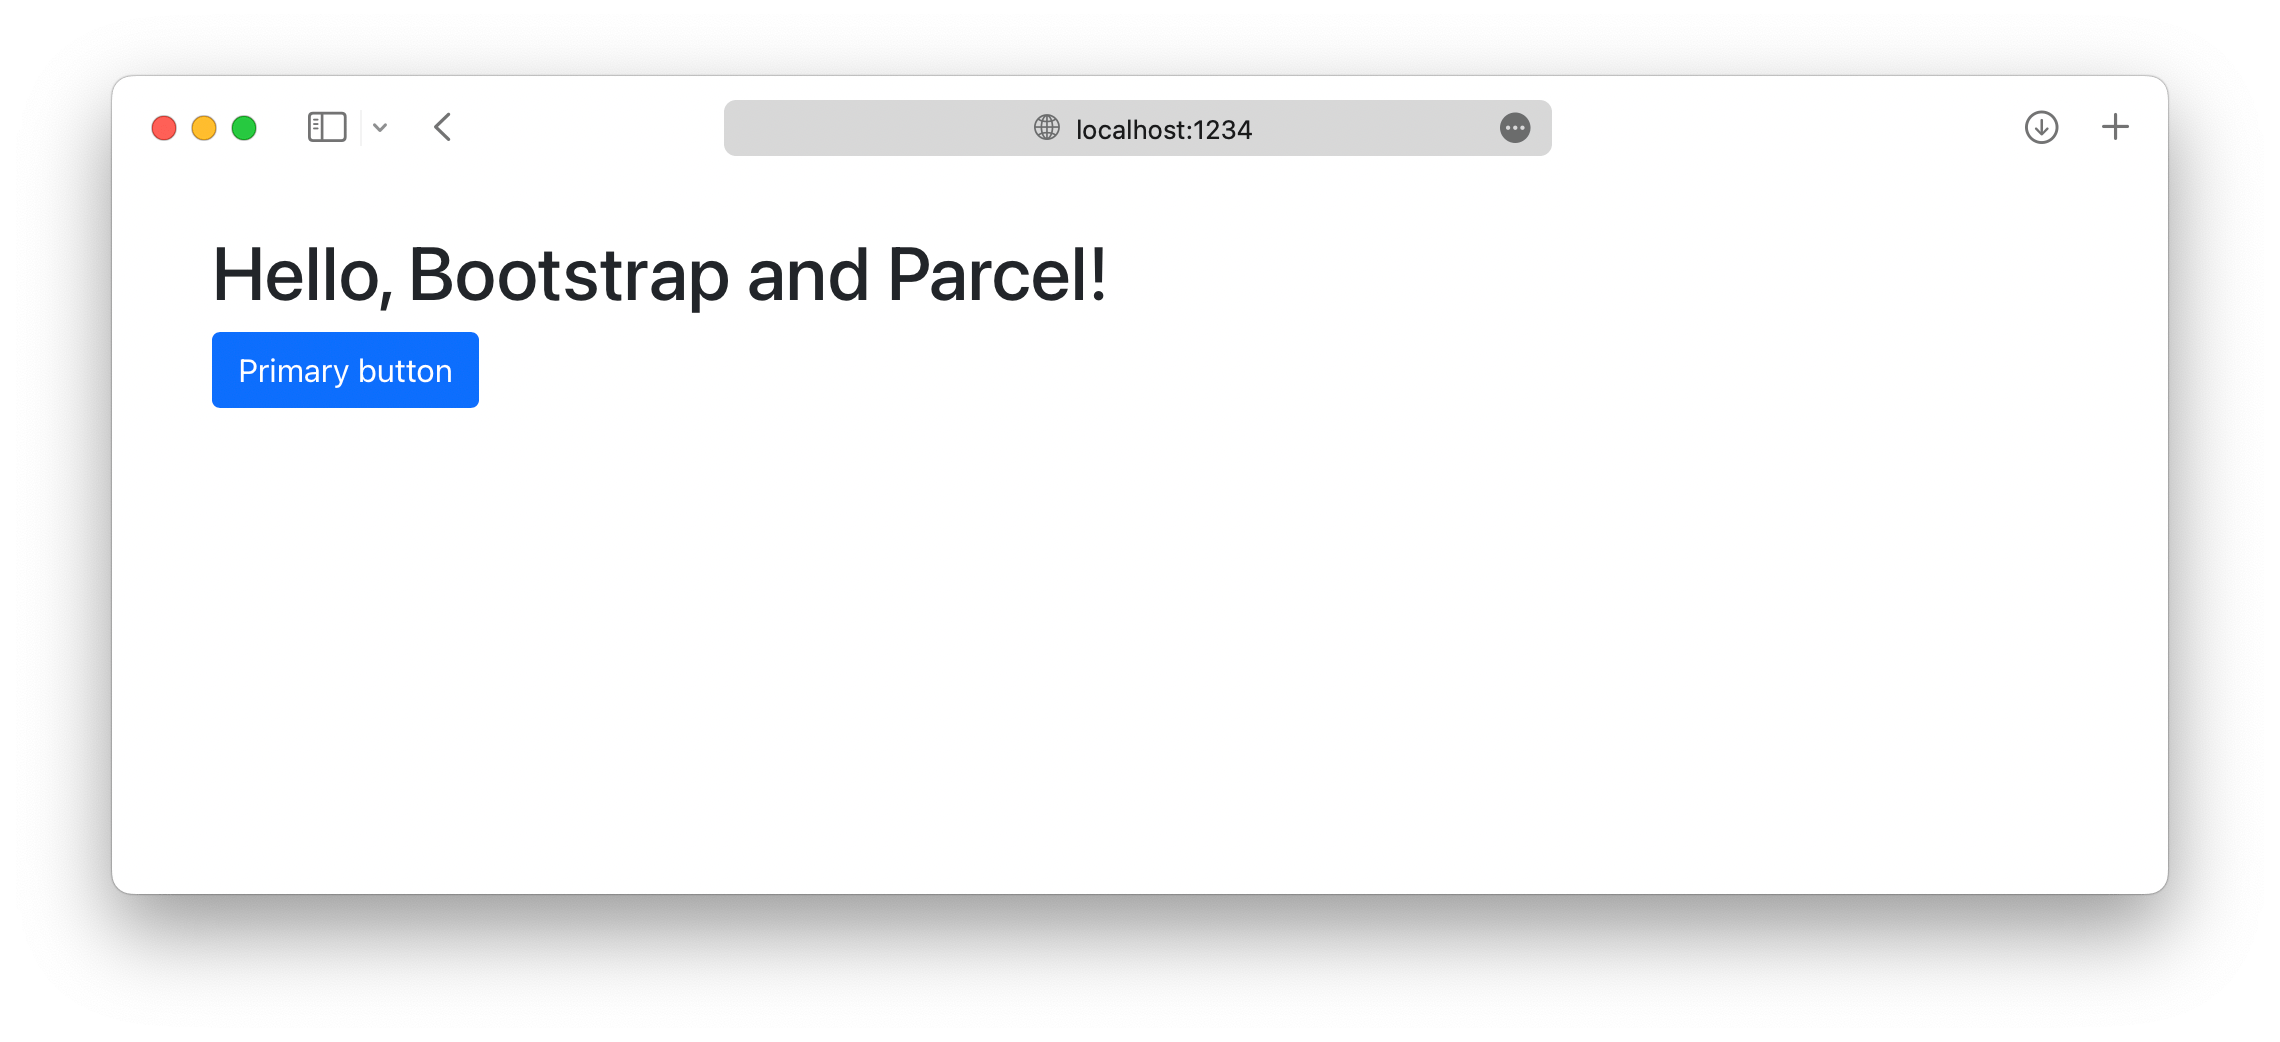
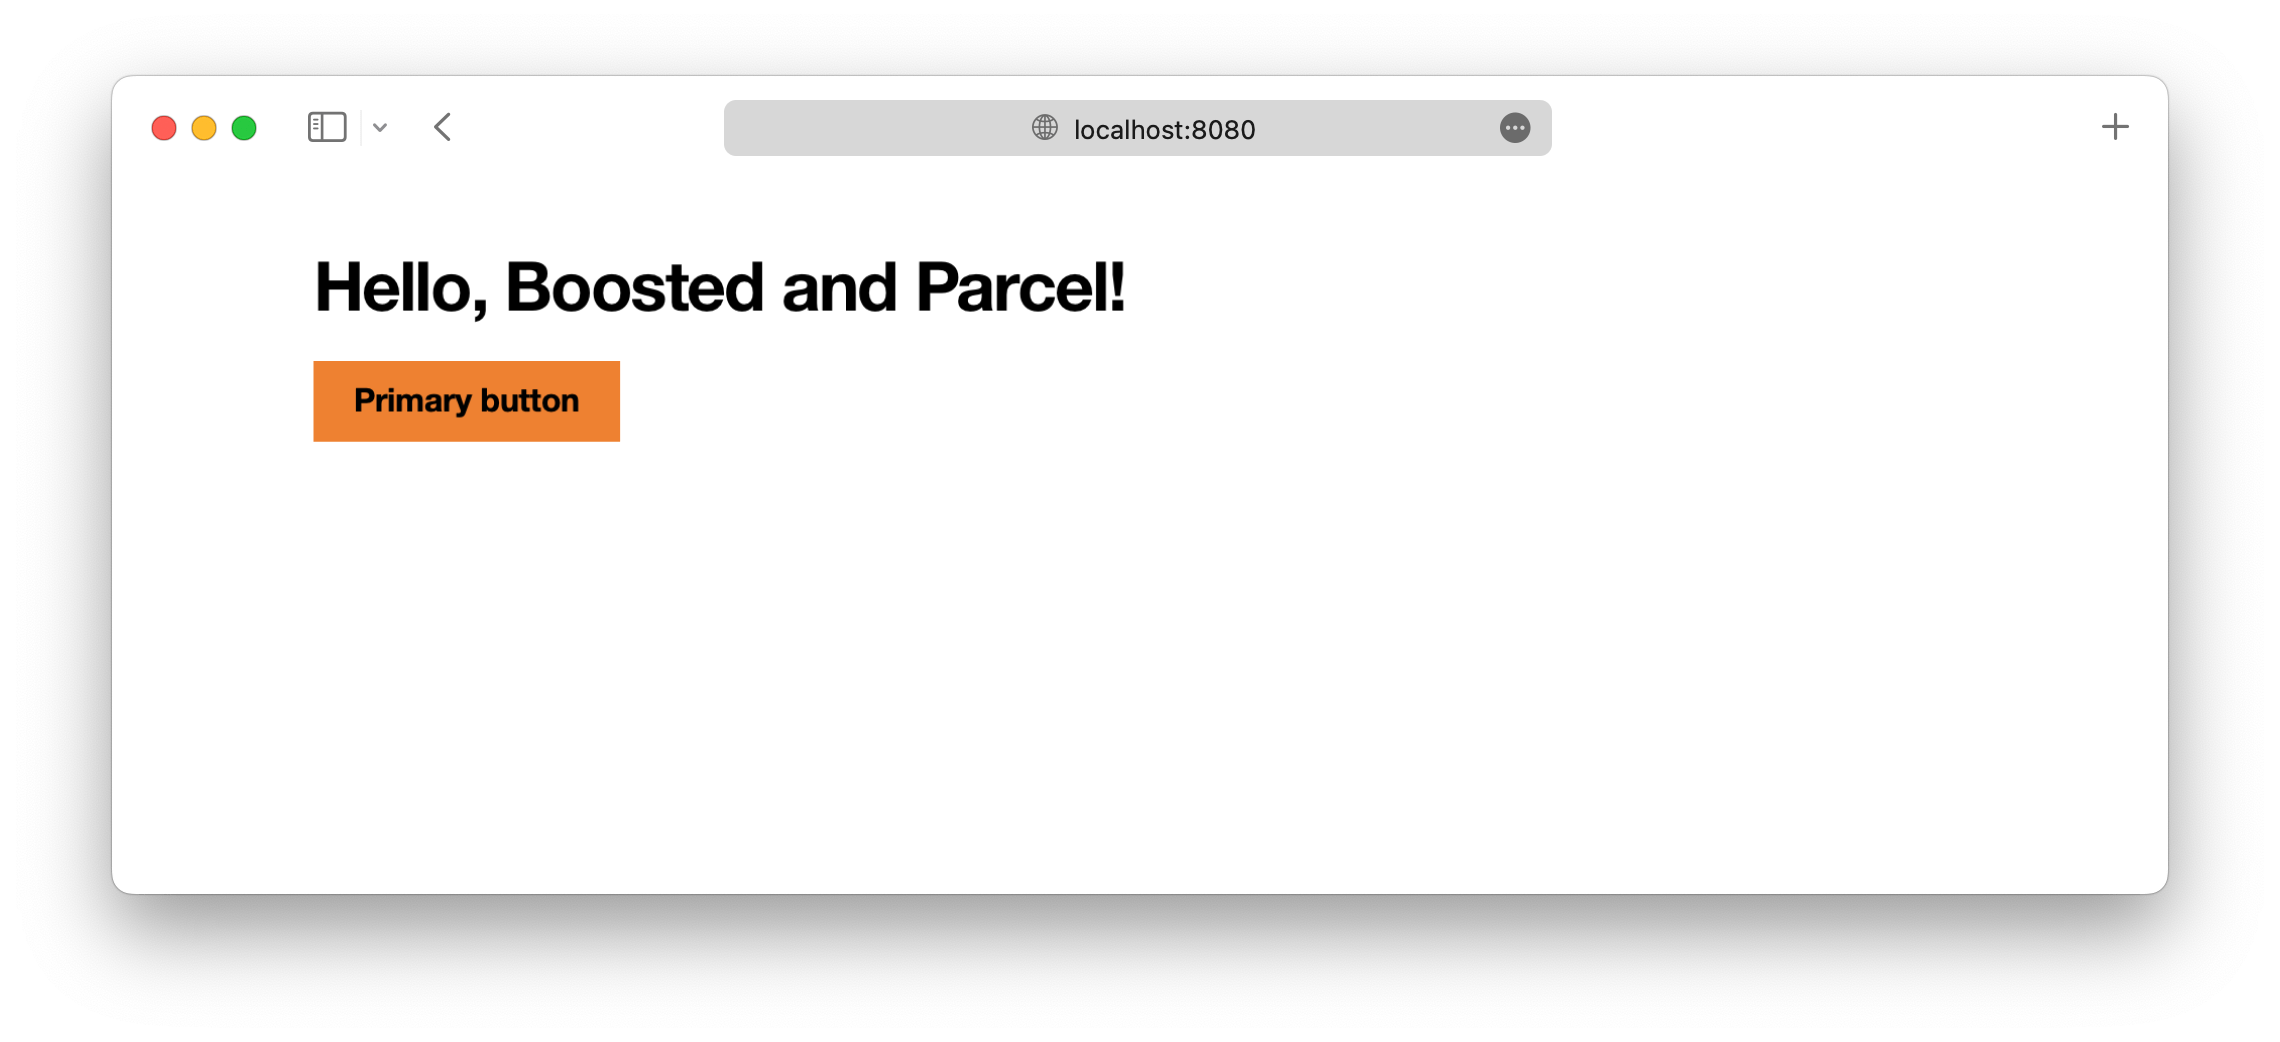
Improve Parcel guide

Changed region(s): [[0.0934, 0.215, 0.4982, 0.4299], [0.4671, 0.0921, 0.5605, 0.1536]]

diff --git a/site/content/docs/5.2/getting-started/parcel.md b/site/content/docs/5.2/getting-started/parcel.md
@@ -126,21 +126,27 @@ In the next and final section to this guide, we'll import all of Boosted's CSS a
 
 ## Import Boosted
 
-Importing Boosted into Parcel requires two imports, one into our `styles.scss` and one into our `main.js`.
+Importing Boosted into Parcel requires three imports, two into our `styles.scss` and one into our `main.js`.
 
-1. **Import Boosted's font and CSS.** Assuming that you already have the fonts inside your project, add the following to `src/scss/styles.scss` to import all of Boosted's source Sass.
+1. **Let's import Boosted's fonts.** Download the WOFF2 version of our Helvetica Neue fonts, **limited to Orange brand usage**: [see `NOTICE.txt` for more information about Helvetica Neue license]({{< param repo >}}/blob/v{{< param current_version >}}/NOTICE.txt).
+
+   ```sh
+   mkdir src/fonts
+   cp /path/HelvNeue55_W1G.woff2 src/fonts/
+   cp /path/HelvNeue75_W1G.woff2 src/fonts/
+   ```
+
+2. **Now, let's import Boosted's CSS.** Add the following to `src/scss/styles.scss` to import all of Boosted's source Sass.
 
    ```scss
    // Import all of Boosted's CSS
-   $font-path: "relative-path-to/font-folder/";
-
    @import "~boosted/scss/orange-helvetica";
    @import "~boosted/scss/boosted";
    ```
 
    *You can also import our stylesheets individually if you want. [Read our Sass import docs]({{< docsref "/customize/sass#importing" >}}) for details.*
 
-2. **Import Boosted's JS.** Add the following to `src/js/main.js` to import all of Boosted's JS. Popper will be imported automatically through Boosted.
+3. **Import Boosted's JS.** Add the following to `src/js/main.js` to import all of Boosted's JS. Popper will be imported automatically through Boosted.
 
    <!-- eslint-skip -->
    ```js
@@ -160,7 +166,7 @@ Importing Boosted into Parcel requires two imports, one into our `styles.scss` a
 
    *[Read our JavaScript docs]({{< docsref "/getting-started/javascript/" >}}) for more information on how to use Boosted's plugins.*
 
-3. **And you're done! 🎉** With Boosted's source Sass and JS fully loaded, your local development server should now look like this.
+4. **And you're done! 🎉** With Boosted's source Sass and JS fully loaded, your local development server should now look like this.
 
    <img class="img-fluid" src="/docs/{{< param docs_version >}}/assets/img/guides/parcel-dev-server-boosted.png" alt="Parcel dev server running with Boosted">
 
